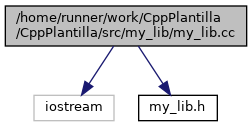
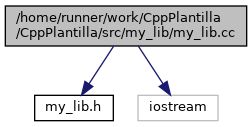
LuisPalacios published a site update

Changed region(s): [[0.5278, 0.7323, 0.8889, 0.9685], [0.1111, 0.7323, 0.4722, 0.9685], [0.1944, 0.7795, 0.4167, 0.8976]]

diff --git a/my__lib_8cc.html b/my__lib_8cc.html
@@ -72,16 +72,16 @@ $(function() {
 <div class="title">my_lib.cc File Reference</div>  </div>
 </div><!--header-->
 <div class="contents">
-<div class="textblock"><code>#include &lt;iostream&gt;</code><br />
-<code>#include &quot;<a class="el" href="my__lib_8h_source.html">my_lib.h</a>&quot;</code><br />
+<div class="textblock"><code>#include &quot;<a class="el" href="my__lib_8h_source.html">my_lib.h</a>&quot;</code><br />
+<code>#include &lt;iostream&gt;</code><br />
 </div><div class="textblock"><div class="dynheader">
 Include dependency graph for my_lib.cc:</div>
 <div class="dyncontent">
 <div class="center"><img src="my__lib_8cc__incl.png" border="0" usemap="#a_2home_2runner_2work_2CppPlantilla_2CppPlantilla_2src_2my__lib_2my__lib_8cc" alt=""/></div>
 <map name="a_2home_2runner_2work_2CppPlantilla_2CppPlantilla_2src_2my__lib_2my__lib_8cc" id="a_2home_2runner_2work_2CppPlantilla_2CppPlantilla_2src_2my__lib_2my__lib_8cc">
 <area shape="rect" title=" " alt="" coords="5,5,247,47"/>
-<area shape="rect" title=" " alt="" coords="34,95,114,121"/>
-<area shape="rect" href="my__lib_8h.html" title=" " alt="" coords="139,95,217,121"/>
+<area shape="rect" href="my__lib_8h.html" title=" " alt="" coords="35,95,113,121"/>
+<area shape="rect" title=" " alt="" coords="138,95,218,121"/>
 </map>
 </div>
 </div><table class="memberdecls">
